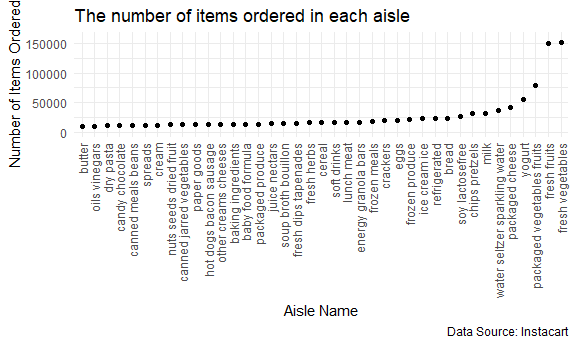
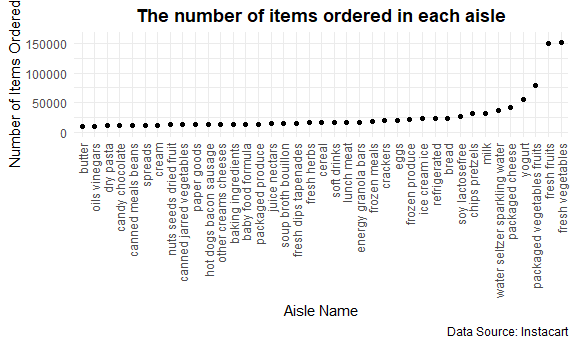
fifth commit - deleted sperate plot, modified title positions for plots

Changed region(s): [[0.125, 0.029, 0.875, 0.087]]

diff --git a/p8105_hw3_kl3069.md b/p8105_hw3_kl3069.md
@@ -138,7 +138,10 @@ instacart %>%
     x = "Aisle Name",
     y = "Number of Items Ordered",
     caption = "Data Source: Instacart") +
-  ylim(0, 160000)
+  ylim(0, 160000) +
+  theme(plot.title = element_text(face="bold",
+                                  hjust=0.5,
+                                  lineheight=1.2))
 ```
 
 <img src="p8105_hw3_kl3069_files/figure-gfm/plot_number_items-1.png" width="90%" />
@@ -343,8 +346,10 @@ acc_tidy_df %>%
     title = "24-hour Activity Time Courses for Each Day",
     x = "Time (24-hour)",
     y = "Physical Activity Counts",
-    caption = "Datasource: Advanced Cardiac Care Center of Columbia University Medical Center"
-  )
+    caption = "Datasource: Advanced Cardiac Care Center of Columbia University Medical Center") +
+  theme(plot.title = element_text(face="bold",
+                                  hjust=0.5,
+                                  lineheight=1.2))
 ```
 
 <img src="p8105_hw3_kl3069_files/figure-gfm/single_panel_plot-1.png" width="90%" />
